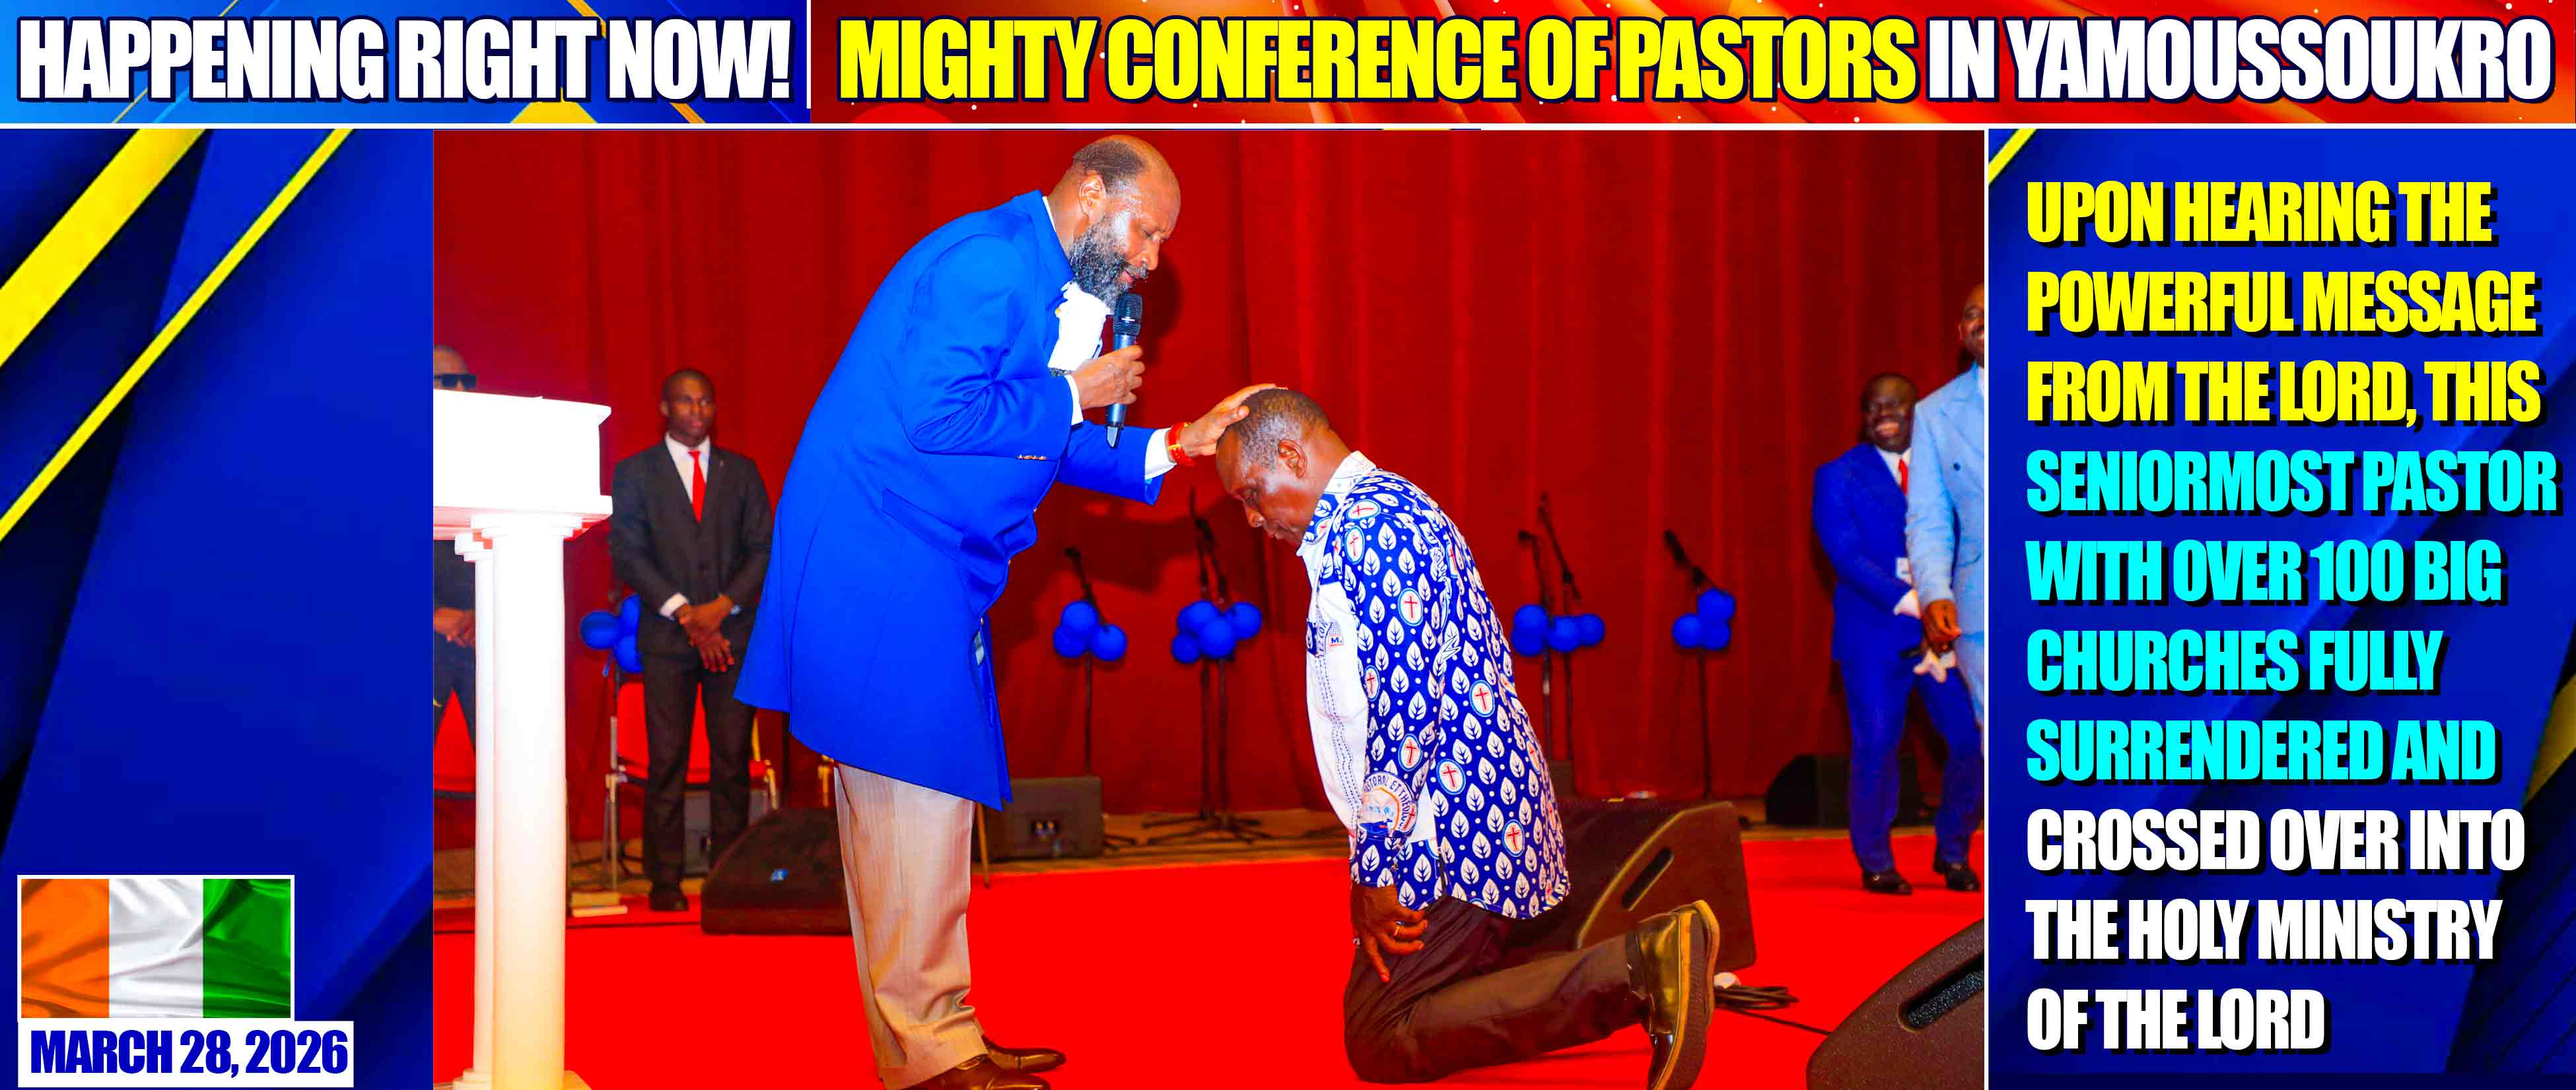
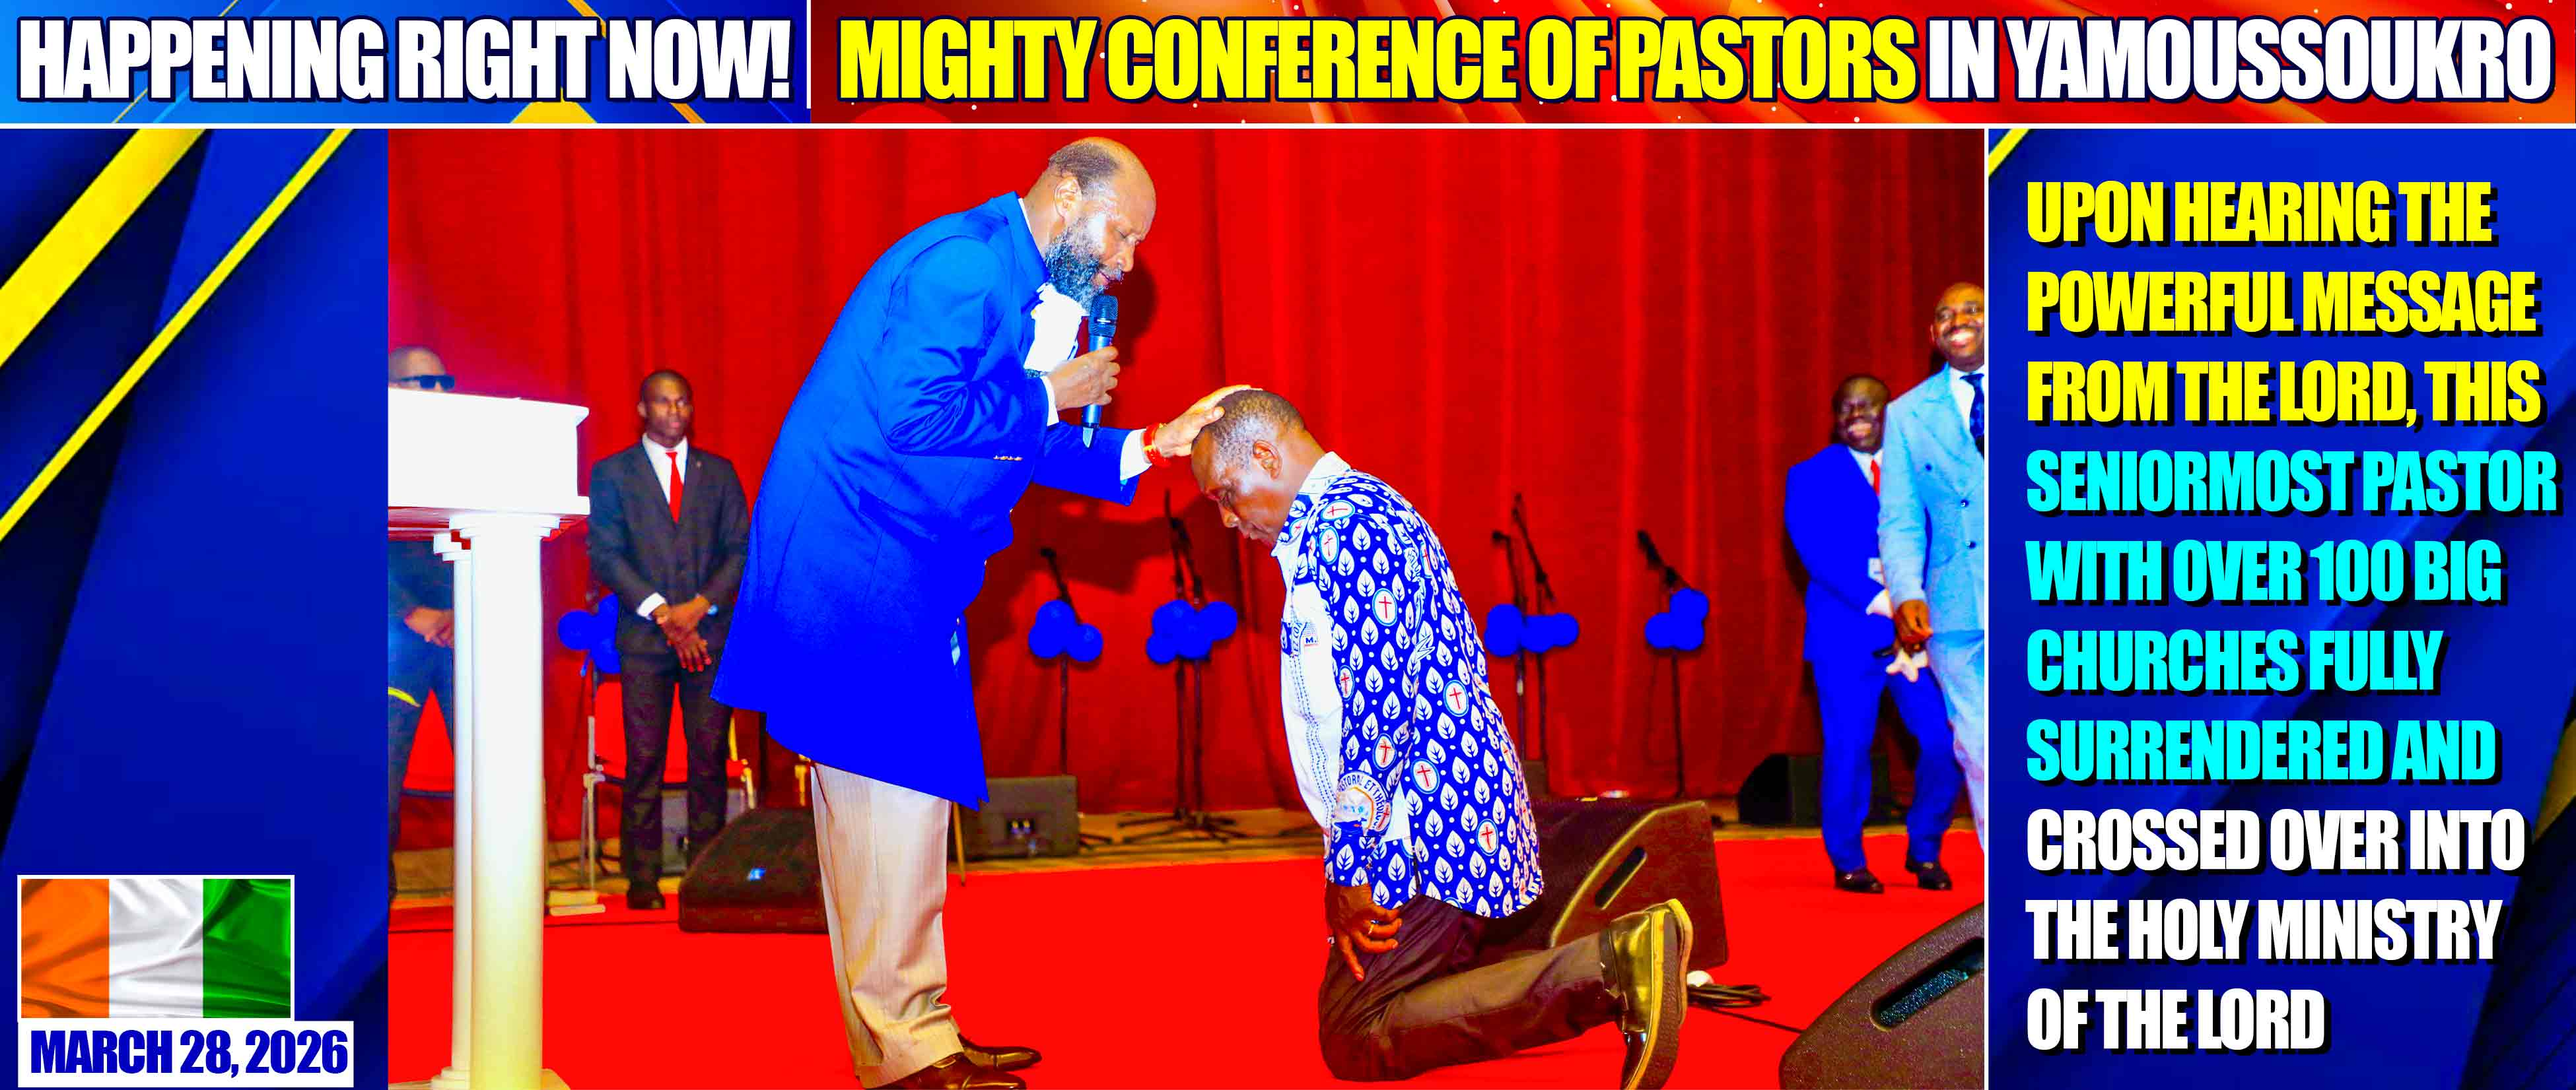
new

diff --git a/index.html b/index.html
@@ -11,6 +11,10 @@
 
 
 <img class="slideshow" src= "https://pub-9f92551086574e82abebdc7b9c83cf92.r2.dev/Abidjan%202026/1.%20Arrival/Skyline.jpg" alt="Unstable internet, please refresh">
+
+<img class="slideshow" src= "https://pub-9f92551086574e82abebdc7b9c83cf92.r2.dev/Abidjan%202026/Day%202/Crowd-1.jpg" alt="Unstable internet, please refresh">
+<img class="slideshow" src= "https://pub-9f92551086574e82abebdc7b9c83cf92.r2.dev/Abidjan%202026/Day%202/Crowd-2.jpg" alt="Unstable internet, please refresh">
+
 <img class="slideshow" src= "https://pub-9f92551086574e82abebdc7b9c83cf92.r2.dev/Abidjan%202026/Day%202/Sermon-1.jpg" alt="Unstable internet, please refresh">
 <img class="slideshow" src= "https://pub-9f92551086574e82abebdc7b9c83cf92.r2.dev/Abidjan%202026/Day%202/Sermon-2.jpg" alt="Unstable internet, please refresh">
 <img class="slideshow" src= "https://pub-9f92551086574e82abebdc7b9c83cf92.r2.dev/Abidjan%202026/Day%202/Sermon-3.jpg" alt="Unstable internet, please refresh">
@@ -22,7 +26,7 @@
 <img class="slideshow" src= "https://pub-9f92551086574e82abebdc7b9c83cf92.r2.dev/Abidjan%202026/Day%202/Sermon-8.jpg" alt="Unstable internet, please refresh">
 
 
-<img class="slideshow" src= "https://pub-9f92551086574e82abebdc7b9c83cf92.r2.dev/Abidjan%202026/Day%202/Sermon-8.jpg" alt="Unstable internet, please refresh">
+<img class="slideshow" src= "https://pub-9f92551086574e82abebdc7b9c83cf92.r2.dev/Abidjan%202026/Day%202/Pastor-crossing.jpg" alt="Unstable internet, please refresh">
 
 <img class="slideshow" src= "https://pub-9f92551086574e82abebdc7b9c83cf92.r2.dev/Abidjan%202026/Day%202/Salvation-2.jpg" alt="Unstable internet, please refresh">
 <img class="slideshow" src= "https://pub-9f92551086574e82abebdc7b9c83cf92.r2.dev/Abidjan%202026/Day%202/Salvation-1.jpg" alt="Unstable internet, please refresh">
